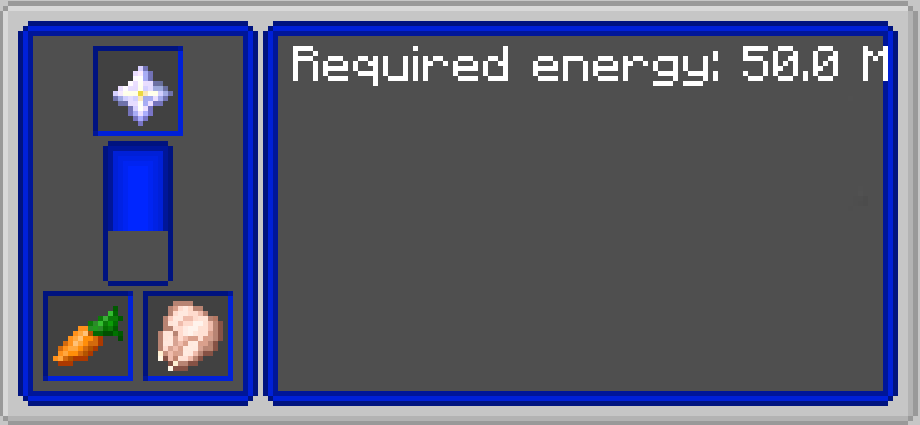
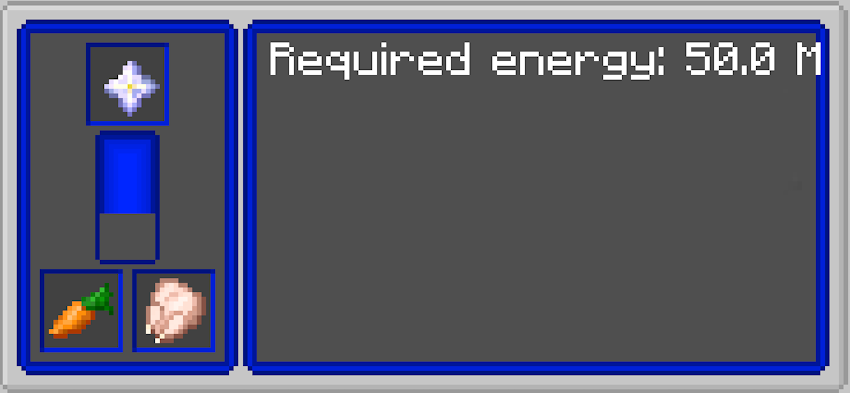
0.1

diff --git a/src/main/java/com/ariks/MolecularRF/Block/Core/ExampleContainer.java b/src/main/java/com/ariks/MolecularRF/Block/Core/ExampleContainer.java
@@ -24,14 +24,14 @@ public class ExampleContainer extends Container {
     protected void PlayerInventory(InventoryPlayer inventoryPlayer) {
         for (int i = 0; i < 3; ++i) {
             for (int j = 0; j < 9; ++j) {
-                this.addSlotToContainer(new Slot(inventoryPlayer, j + i * 9 + 9, 8 + j * 18, 86 + i * 18));
+                this.addSlotToContainer(new Slot(inventoryPlayer, j + i * 9 + 9, 23 + j * 18, 87 + i * 18));
             }
         }
         PlayerHotbar(inventoryPlayer);
     }
     private void PlayerHotbar(InventoryPlayer inventoryPlayer) {
         for (int k = 0; k < 9; ++k) {
-            this.addSlotToContainer(new Slot(inventoryPlayer, k, 8 + k * 18, 144));
+            this.addSlotToContainer(new Slot(inventoryPlayer, k, 23 + k * 18, 145));
         }
     }
     protected void SyncValue() {

diff --git a/src/main/java/com/ariks/MolecularRF/Block/RFMolecularDoubleInput/GuiRfMolecularDouble.java b/src/main/java/com/ariks/MolecularRF/Block/RFMolecularDoubleInput/GuiRfMolecularDouble.java
@@ -25,7 +25,7 @@ public class GuiRfMolecularDouble extends ExampleGuiContainer {
     public GuiRfMolecularDouble(InventoryPlayer inventory, TileRfMolecularDoubleInput tileEntity, EntityPlayer player) {
         super(new ContainerRfMolecularDouble(inventory, tileEntity, player));
         this.tile = tileEntity;
-        setTexture("textures/gui/gui_molecular_double.png", 175, 167);
+        setTexture("textures/gui/gui_molecular_double.png", 205, 170);
         BarComponent barComponent = new BarComponent(this, 1, 17, 24, 15, 0, 14, 29, "textures/gui/gui_component.png");
         barComponent.setSideDirection("down");
         addBarComponent(barComponent);

diff --git a/src/main/java/com/ariks/MolecularRF/Block/RFMolecularOutput/GuiRfMolecularOutput.java b/src/main/java/com/ariks/MolecularRF/Block/RFMolecularOutput/GuiRfMolecularOutput.java
@@ -25,7 +25,7 @@ public class GuiRfMolecularOutput extends ExampleGuiContainer {
     public GuiRfMolecularOutput(InventoryPlayer inventory, TileRfMolecularOutput tileEntity, EntityPlayer player) {
         super(new ContainerRfMolecularOutput(inventory, tileEntity, player));
         this.tile = tileEntity;
-        setTexture("textures/gui/gui_molecular_output.png", 175, 167);
+        setTexture("textures/gui/gui_molecular_output.png", 205, 170);
         BarComponent barComponent = new BarComponent(this, 1, 17, 24, 30, 0, 14, 29, "textures/gui/gui_component.png");
         barComponent.setSideDirection("down");
         addBarComponent(barComponent);

diff --git a/src/main/java/com/ariks/MolecularRF/Block/RfMolecular/GuiRfMolecular.java b/src/main/java/com/ariks/MolecularRF/Block/RfMolecular/GuiRfMolecular.java
@@ -24,7 +24,7 @@ public class GuiRfMolecular extends ExampleGuiContainer {
     public GuiRfMolecular(InventoryPlayer inventory, TileRfMolecular tileEntity, EntityPlayer player) {
         super(new ContainerRfMolecular(inventory, tileEntity, player));
         this.tile = tileEntity;
-        setTexture("textures/gui/gui_molecular.png", 175, 167);
+        setTexture("textures/gui/gui_molecular.png", 205, 170);
         BarComponent barComponent = new BarComponent(this, 1, 7, 24, 0, 0, 14, 29, "textures/gui/gui_component.png");
         barComponent.setSideDirection("down");
         addBarComponent(barComponent);
